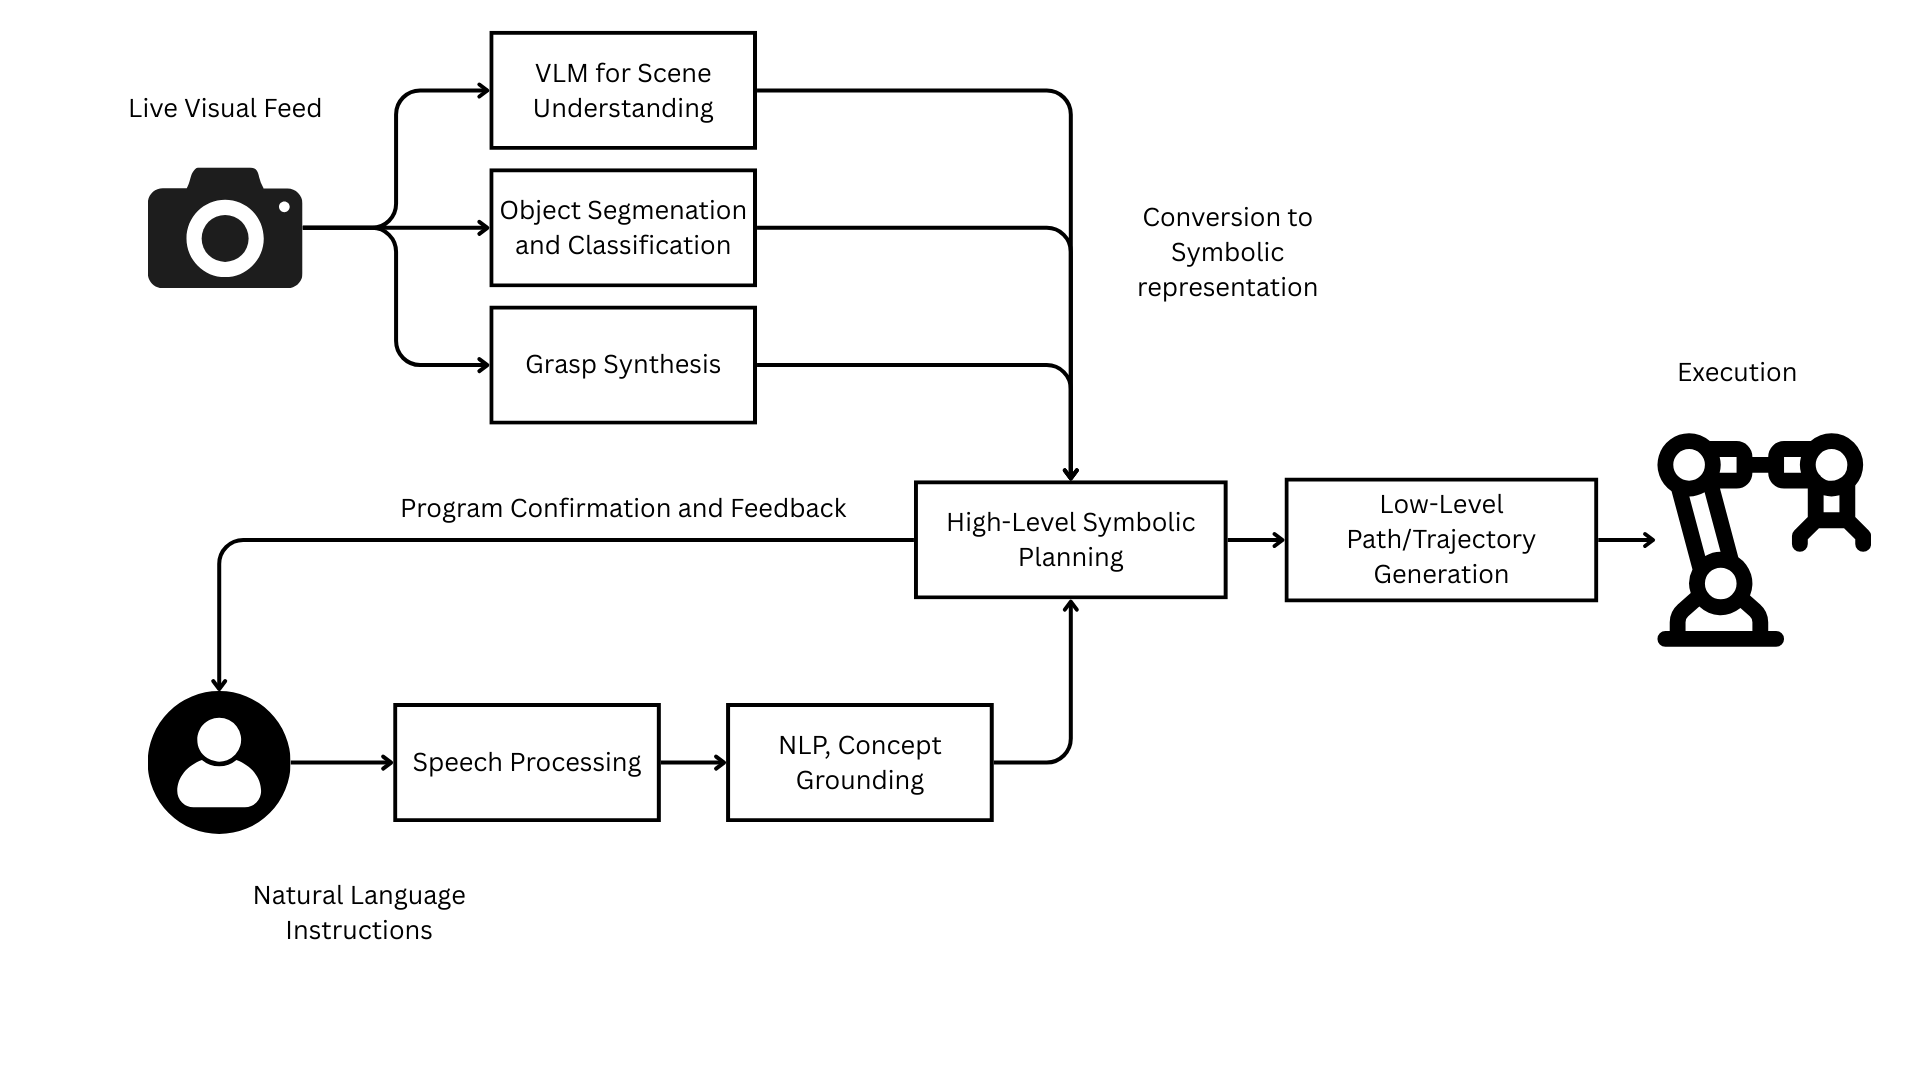
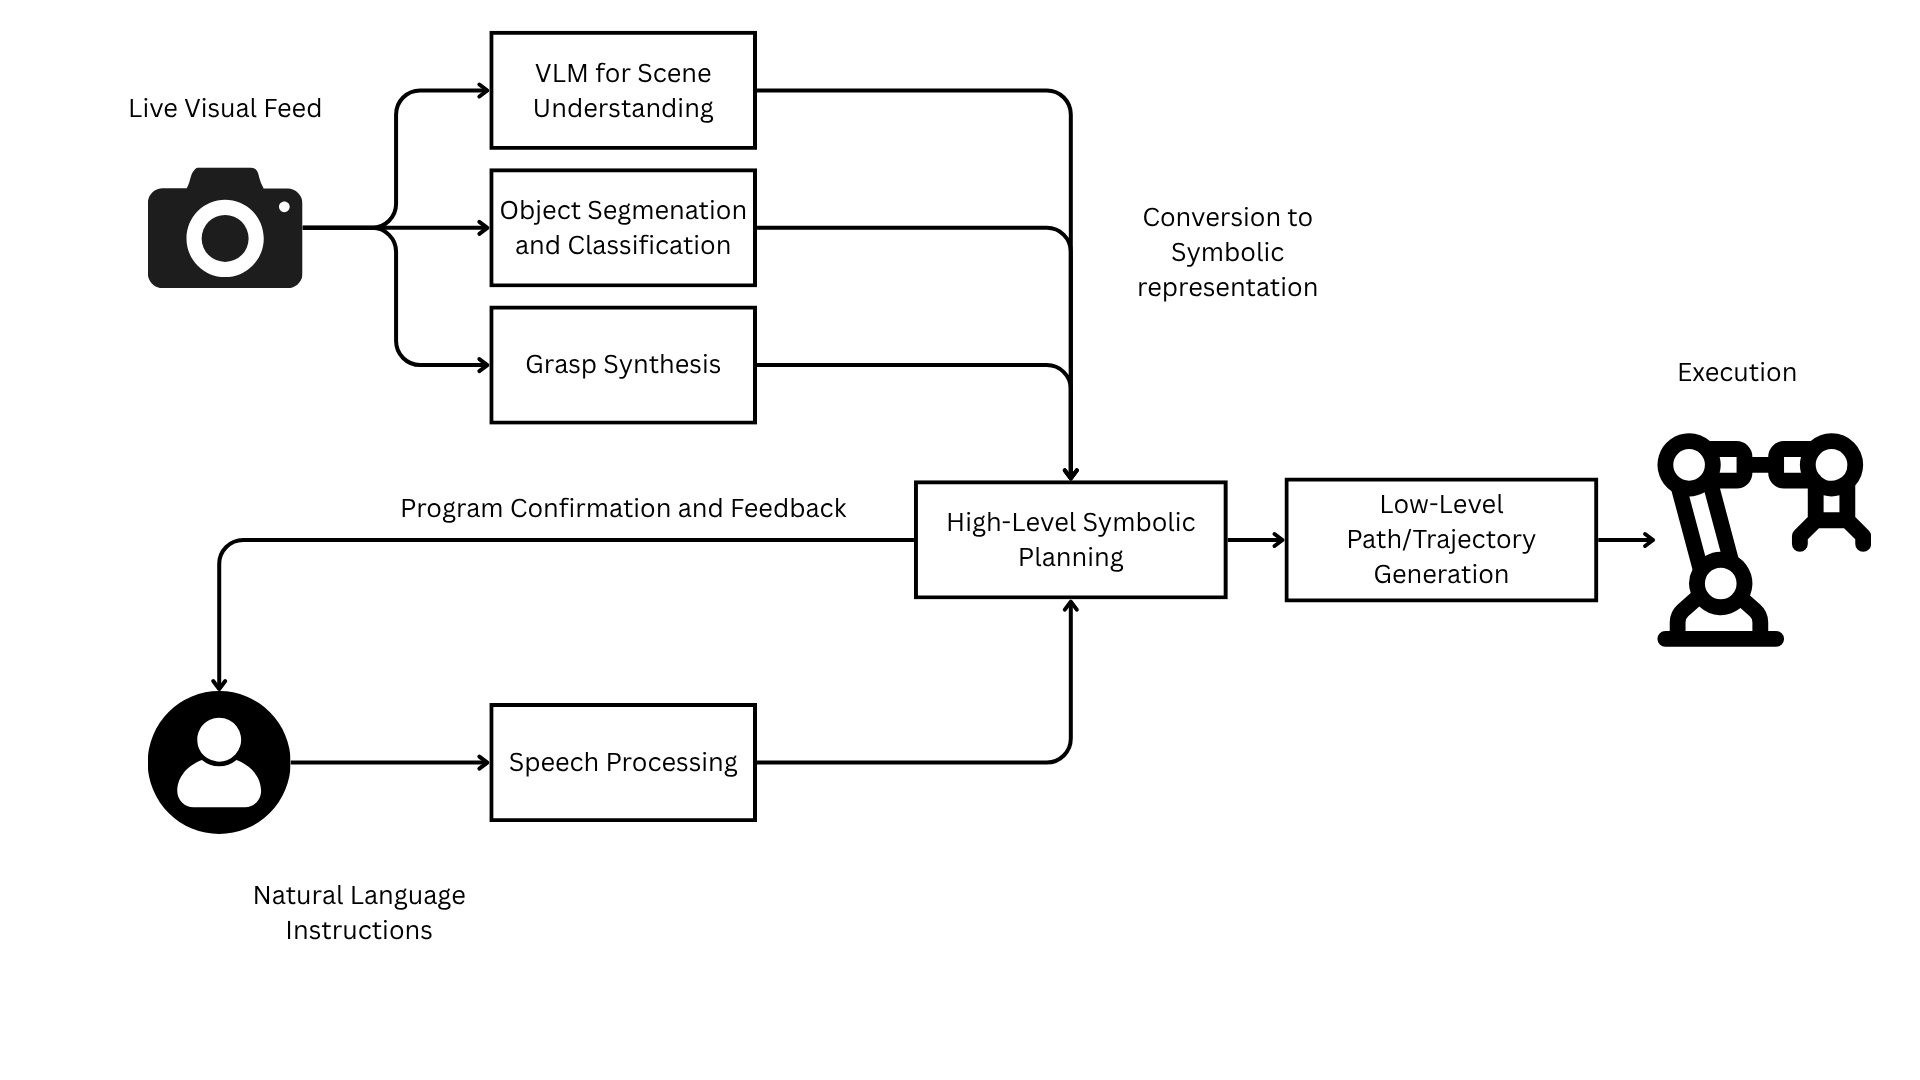
feat: add system overview in system design and implementation

Changed region(s): [[0.1875, 0.6417, 0.5312, 0.7639]]

diff --git a/Major_project_proposal.tex b/Major_project_proposal.tex
@@ -261,6 +261,28 @@ For this project, we aim to contribute to this progress by addressing some of th
 
 \subsection{System Overview}
 
+The proposed system is an end-to-end robotic manipulation pipeline that integrates perception, planning, and execution within a unified ROS2-based framework. It enables the robot to transform high-level natural language instructions into executable actions.
+
+\begin{figure}[H]
+    \centering
+    \includegraphics[width=\linewidth]{images/System_Architecture_Overview.png}
+    \caption{High-level system workflow illustrating the flow of visual and language inputs through the pipeline}
+    \label{fig:system_workflow}
+\end{figure}
+
+Figure~\ref{fig:system_workflow} presents the overall workflow of the system. The user provides instructions via natural language, which are processed through an Automatic Speech Recognition (ASR) pipeline. In parallel, the environment is perceived through a vision module performing scene understanding, object detection, segmentation, and grasp synthesis. Both modalities are fused into symbolic representations using large language models (LLMs), enabling task understanding and reasoning.
+
+\begin{figure}[H]
+    \centering
+    \includegraphics[width=\linewidth]{images/ros2_graph_updated.png}
+    \caption{ROS2-based system architecture showing key nodes and their interactions}
+    \label{fig:project_ros2_architecture}
+\end{figure}
+
+As shown in Figure~\ref{fig:project_ros2_architecture}, the system follows a hierarchical planning architecture. The high-level planner decomposes user instructions into subtasks, the medium-level planner maps them to executable robot capabilities, and the low-level executor performs motion execution on the hardware. These components interact closely with perception and user interface nodes within the ROS2 ecosystem.
+
+A human-in-the-loop mechanism allows users to review and confirm generated plans before execution, while an emergency channel ensures immediate interruption of robot actions when required. This design results in a closed-loop system that supports intuitive interaction, reliable planning, and safe execution in dynamic environments.
+
 \subsection{Vision}
 Since the main focus of the current phase is integrating and moving the setup from simulation to actual hardware, we have encountered and addressed critical challenges in our vision and grasping pipelines. Initial hardware testing using GraspNet yielded excessively noisy 6-DOF poses for simple planar objects. Because our tasks primarily require top-down grasping along the $xy$-plane, we temporarily shifted to a deterministic Oriented Bounding Box (OBB) approach due to time constraints. 
 
